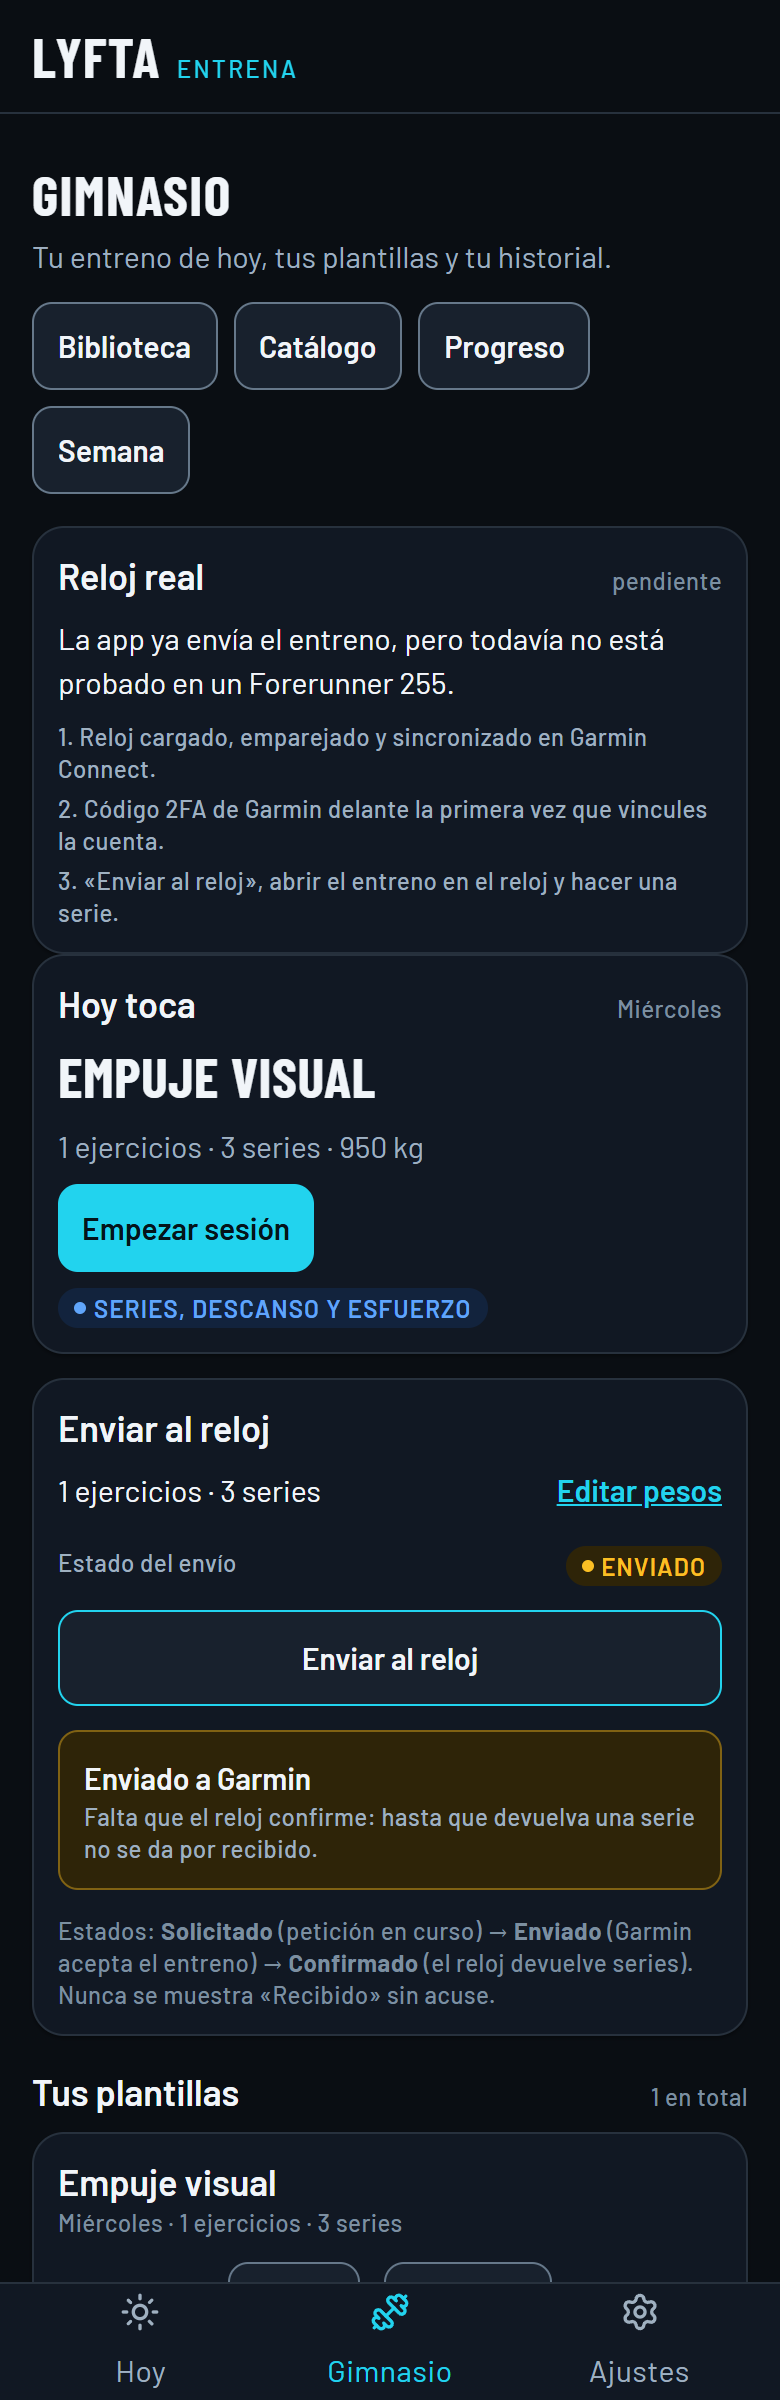
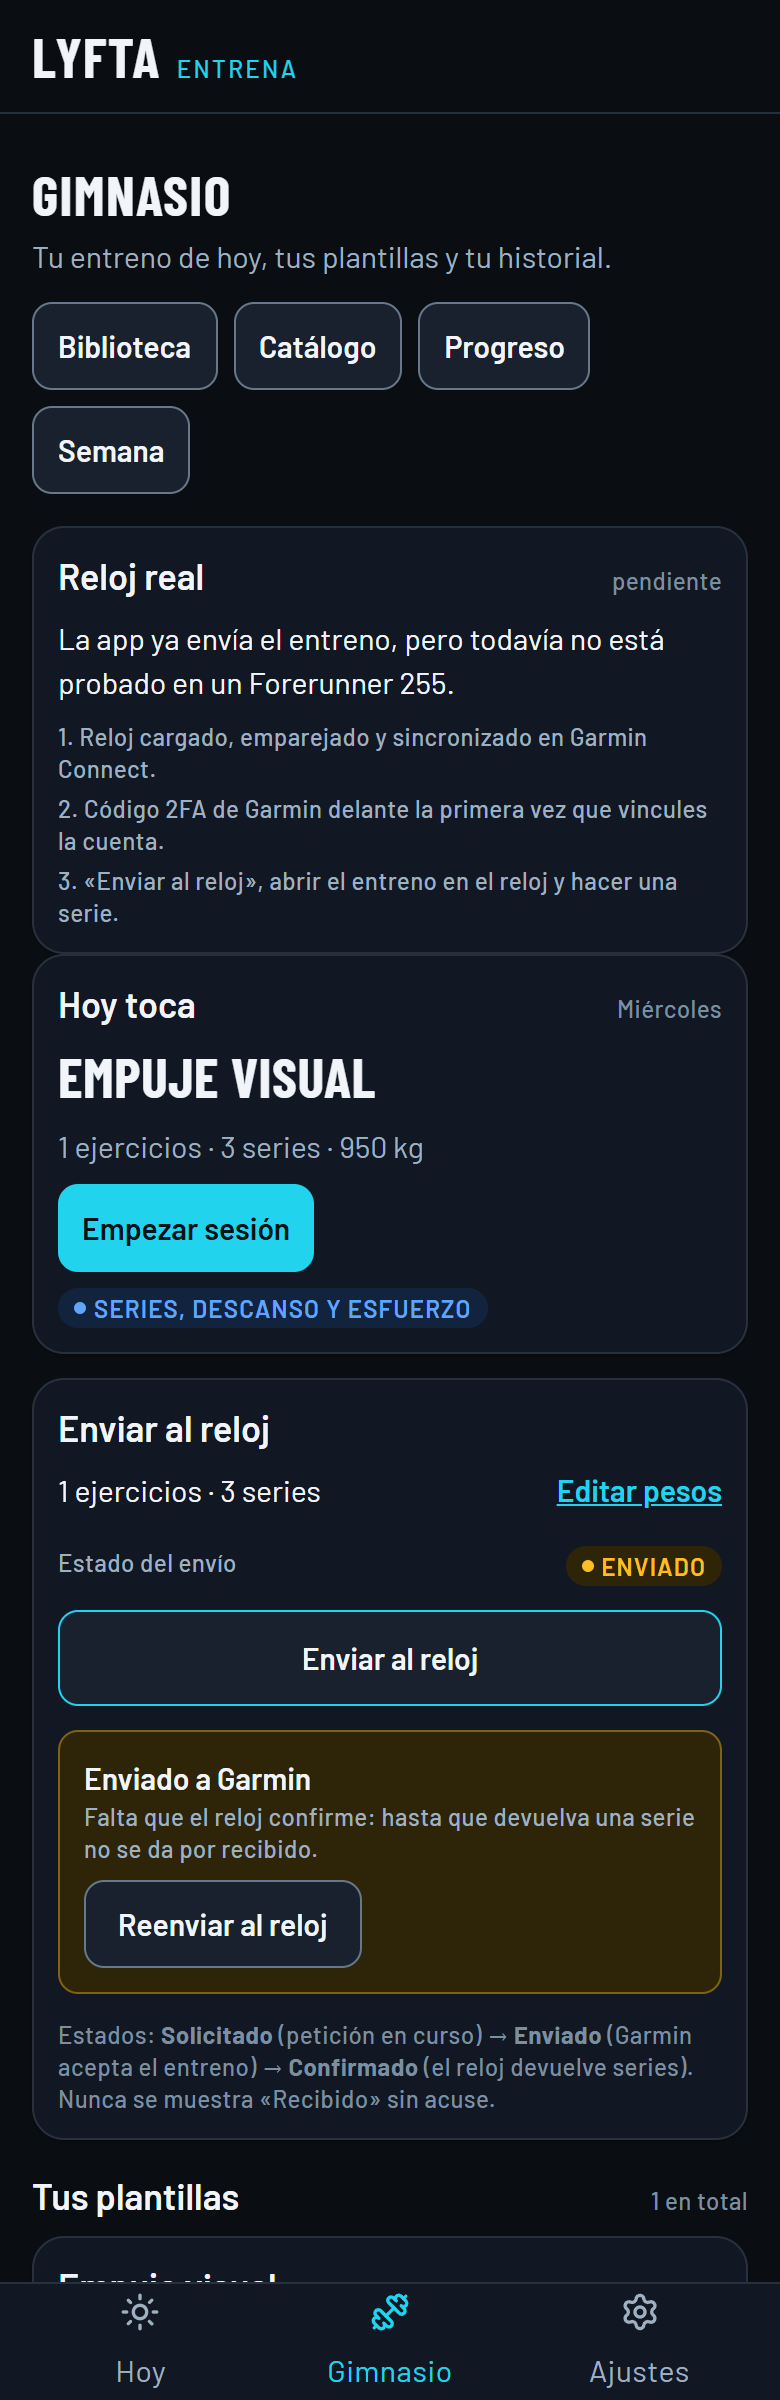
Onboarding visual del envío y reintento del envío al reloj
- Onboarding: el paso 2 incluye un **esquema visual** Móvil → Serie 60/65/70 kg →
  Reloj, para que el envío al reloj se entienda sin leer; se mantienen los tres
  pasos y la nota del fr255 + 2FA. Prueba `onboarding` ampliada.
- Envío: botón **Reenviar al reloj** también en estado «Enviado» (reintento sin
  salir de la tarjeta), además del «Reintentar» de error; los tres estados
  Solicitado → Enviado → Confirmado siguen sin mostrar «Recibido» sin acuse.
  Prueba `envio-estados` ampliada.
- Capturas `00-onboarding` y `04b-envio-enviado` regeneradas a 390 px; regresión
  visual 4/4 con la línea base del envío actualizada.
- WALL y estado al día (79/79 frontend y 25/25 backend).

Suites: frontend 79/79 en 38 ficheros, backend 25/25 scripts, visual 4/4.

Changed region(s): [[0.0308, 0.7812, 0.9231, 0.9375], [0.8308, 0.875, 0.9846, 0.9375]]

diff --git a/frontend-nuevo/src/pages/OnboardingPage.tsx b/frontend-nuevo/src/pages/OnboardingPage.tsx
@@ -1,5 +1,5 @@
 import { useNavigate } from 'react-router-dom';
-import { ArrowRight, CalendarCheck, Check, Send, Watch } from 'lucide-react';
+import { ArrowRight, CalendarCheck, Check, Send, Smartphone, Watch } from 'lucide-react';
 import { Button, Card, PageHeader } from '../components/ui';
 import { markOnboardingSeen } from '../lib/onboarding';
 
@@ -59,14 +59,39 @@ export function OnboardingPage({ onDone }: { onDone?: () => void }) {
       <div className="flex flex-col gap-3">
         {PASOS.map((paso) => {
           const Icono = paso.icono;
+          const esEnvio = paso.icono === Send;
           return (
             <Card key={paso.texto} className="flex items-start gap-3">
               <span className="mt-0.5 rounded-md bg-accent-soft p-2 text-accent">
                 <Icono aria-hidden="true" className="size-5" />
               </span>
-              <div>
+              <div className="min-w-0 flex-1">
                 <p className="text-body font-semibold text-ink">{paso.texto}</p>
                 <p className="mt-1 text-caption text-ink-muted">{paso.detalle}</p>
+                {esEnvio ? (
+                  <div
+                    aria-label="Esquema: el plan sale del móvil y llega al reloj"
+                    className="mt-2 flex items-center justify-center gap-2 rounded-md border border-line bg-raised px-2 py-2"
+                  >
+                    <span className="flex flex-col items-center gap-1">
+                      <Smartphone aria-hidden="true" className="size-5 text-accent" />
+                      <span className="text-caption text-ink-muted">Móvil</span>
+                    </span>
+                    <ArrowRight aria-hidden="true" className="size-4 text-ink-faint" />
+                    <span className="flex flex-col gap-1">
+                      {[60, 65, 70].map((kg) => (
+                        <span key={kg} className="tnum rounded-sm border border-line px-1.5 py-0.5 text-caption text-ink">
+                          Serie · {kg} kg
+                        </span>
+                      ))}
+                    </span>
+                    <ArrowRight aria-hidden="true" className="size-4 text-ink-faint" />
+                    <span className="flex flex-col items-center gap-1">
+                      <Watch aria-hidden="true" className="size-5 text-accent" />
+                      <span className="text-caption text-ink-muted">Reloj</span>
+                    </span>
+                  </div>
+                ) : null}
               </div>
             </Card>
           );

diff --git a/frontend-nuevo/src/test/envio-estados.test.tsx b/frontend-nuevo/src/test/envio-estados.test.tsx
@@ -59,17 +59,19 @@ describe('estados del envío al reloj', () => {
     renderApp('/gimnasio');
 
     await screen.findByRole('heading', { name: 'Gimnasio' });
-    await user.click(await screen.findByRole('button', { name: /enviar al reloj/i }));
+    await user.click(await screen.findByRole('button', { name: /^enviar al reloj$/i }));
 
     // Garmin acepta el entreno, pero el reloj aún no ha confirmado.
     expect(await screen.findByText('Enviado a Garmin')).toBeInTheDocument();
     expect(screen.queryByText(/^recibido$/i)).not.toBeInTheDocument();
     expect(screen.getByText(/falta que el reloj confirme/i)).toBeInTheDocument();
     expect(screen.getAllByText('Enviado').length).toBeGreaterThan(0);
+    // Reintento disponible también cuando ya está enviado (por si hay que reenviar).
+    expect(screen.getByRole('button', { name: /reenviar al reloj/i })).toBeInTheDocument();
 
     // Ahora el reloj devuelve series: la app puede confirmar.
     ackConfirmado = true;
-    await user.click(screen.getByRole('button', { name: /enviar al reloj/i }));
+    await user.click(screen.getByRole('button', { name: /^enviar al reloj$/i }));
     await waitFor(() => expect(screen.getAllByText('Confirmado').length).toBeGreaterThan(0), { timeout: 10000 });
     expect(screen.getByText(/confirmado por el reloj/i)).toBeInTheDocument();
     expect(screen.getByText(/ha devuelto 2 series/i)).toBeInTheDocument();

diff --git a/frontend-nuevo/src/test/onboarding.test.tsx b/frontend-nuevo/src/test/onboarding.test.tsx
@@ -31,6 +31,11 @@ describe('onboarding', () => {
     expect(screen.getByText(/2\..*env[ií]a/i)).toBeInTheDocument();
     expect(screen.getByText(/3\..*entrena/i)).toBeInTheDocument();
     expect(screen.getByText(/forerunner 255/i)).toBeInTheDocument();
+    // Esquema visual del envío: el plan sale del móvil y llega al reloj con sus series.
+    expect(screen.getByLabelText(/esquema: el plan sale del móvil/i)).toBeInTheDocument();
+    expect(screen.getByText('Móvil')).toBeInTheDocument();
+    expect(screen.getByText('Reloj')).toBeInTheDocument();
+    expect(screen.getByText(/serie · 60 kg/i)).toBeInTheDocument();
 
     await user.click(screen.getByRole('button', { name: /empezar/i }));
     expect(await screen.findByRole('heading', { name: 'Hoy' })).toBeInTheDocument();

diff --git a/frontend-nuevo/src/pages/GymPage.tsx b/frontend-nuevo/src/pages/GymPage.tsx
@@ -175,6 +175,9 @@ export function GymPage() {
                     ? `El reloj ha devuelto ${ack.data?.sets_count ?? 0} series de hoy.`
                     : 'Falta que el reloj confirme: hasta que devuelva una serie no se da por recibido.'}
                 </p>
+                <Button variant="secondary" className="mt-2" onClick={startSend} disabled={push.isPending}>
+                  Reenviar al reloj
+                </Button>
               </div>
             ) : null}
             <p className="text-caption text-ink-faint">

diff --git a/ESTADO-AGENTE.md b/ESTADO-AGENTE.md
@@ -1,22 +1,21 @@
 titulo: Lyfta — entrenamiento, reloj y análisis
 estado: producto completo y desplegado; en-espera de la prueba física del reloj
-tarea: criterios de sesión (serie grande, ±2,5 kg/±1 rep, «anterior», descanso automático), historial con «60 → 62,5 kg» y CSV por serie con sesión, unidad, previsto y real
+tarea: estados del envío con reintento, historial «60 → 62,5 kg» y onboarding visual del envío (móvil → series → reloj)
 nivel: 2
 siguiente: David instala la PWA desde https://servidor.tail4263a0.ts.net (3 pasos) y ejecuta la prueba del reloj de docs/USO-MOVIL.md
 bloqueado: prueba física del fr255 (2FA/reloj de David)
 fecha: 2026-11-11
-resumen: Serie actual grande con ±2,5 kg/±1 rep, «anterior» por serie y descanso automático; historial «60 → 62,5 kg» con diferencia marcada; CSV por serie con sesión, unidad, previsto y real (tres series → tres filas); 79/79 frontend y 25/25 backend.
+resumen: Envío con Solicitado/Enviado/Confirmado, reintento visible también tras Enviado y nunca «Recibido» sin acuse; historial «60 → 62,5 kg» con diferencia marcada; onboarding con esquema visual móvil → series → reloj; 79/79 frontend y 25/25 backend, capturas 00/04b/30.
 
 ## Bloqueo
 
-**Situación (2026-11-11, 14:10):** los tres criterios están cumplidos y desplegados. Lo
+**Situación (2026-11-11, 14:40):** los tres criterios están cumplidos y desplegados. Lo
 único abierto es la aceptación con el reloj físico.
 
-**(a) Dónde me quedé.** Sesión (modo enfocado y lista con ±2,5 kg/±1 rep, «Anterior» por
-serie, discos, descanso automático; una serie se completa sin salir), historial con
-«60 → 62,5 kg» y +2,5 kg resaltado, y CSV por serie con `sesion_id`, `sesion`, `unidad`,
-`peso_previsto`, `peso_real`, `reps_previstas`, `reps_reales` y `dif`. Suites: 79/79
-frontend (38 ficheros), 25/25 backend, visual 4/4.
+**(a) Dónde me quedé.** Envío con tres estados y **Reenviar al reloj** (también en Enviado),
+historial con **«60 → 62,5 kg»** y `+2,5 kg`, y onboarding con **esquema visual** del envío
+(Móvil → Serie 60/65/70 kg → Reloj). Pruebas `envio-estados`, `onboarding` e
+`historial-diferencias` en verde; suites 79/79 frontend, 25/25 backend, visual 4/4.
 
 **(b) Qué falta revisar.**
 1. **Prueba física del fr255**: envío real, peso por serie en el reloj, vuelta de una serie

diff --git a/WALL.md b/WALL.md
@@ -109,6 +109,11 @@ crear entrenamientos de gimnasio, llevarlos al reloj y analizar todo.
   `peso_previsto`, `peso_real`, `dif`…): tres series → tres filas, verificado en `kg` y en
   `lb`. Pruebas `sesion-enfocada`, `historial-diferencias`, `exportar-historial` (3).
   Capturas `26`, `30` y `24` a 390 px.
+- [x] Onboarding visual del envío y reintento. — 2026-11-11. El paso 2 incluye un
+  **esquema Móvil → series (60/65/70 kg) → Reloj** que se entiende sin leer, además de los
+  tres pasos y la nota del fr255/2FA; el envío añade **Reenviar al reloj** también cuando ya
+  está «Enviado» (reintento sin salir de la tarjeta). Pruebas `onboarding` y `envio-estados`;
+  capturas `00-onboarding` y `04b-envio-enviado` regeneradas.
 - [ ] Watch-app Connect IQ propia (después del camino A). — **en curso**: `watch/lyfta-watch/`
   diseñada, implementada y compilada para fr255 y 4 perfiles más; backend `/watch/today` y
   `/watch/sets` probado; sensor de repeticiones y estimación de fuerza añadidos. Capturas del
